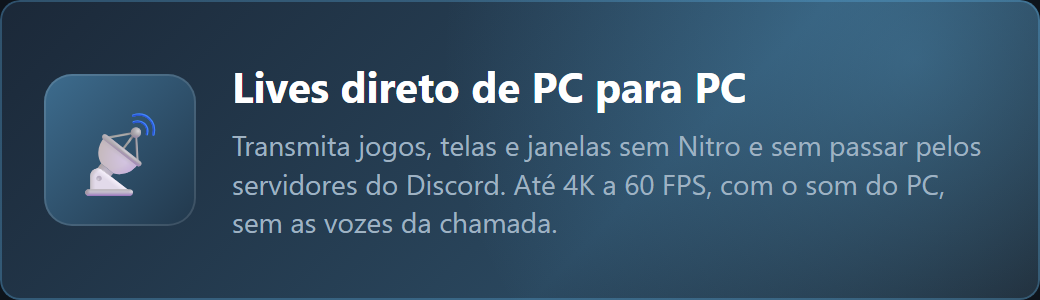
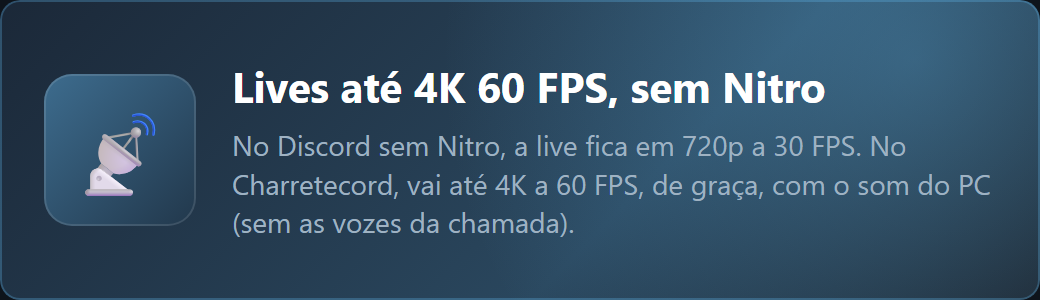
Novidades: só o que difere do Discord, seção do Brasil (ANPD), voz até 1000%

diff --git a/NOVIDADES.md b/NOVIDADES.md
@@ -2,45 +2,49 @@
 
 # Novidades do Charretecord
 
-O histórico completo do que o Charretecord tem e de tudo o que mudou em cada versão. Dentro do app, a janela de novidades abre sozinha depois de cada atualização (e em Configurações → Plugins → CharreteLive → **Novidades do Charretecord**).
+O que o Charretecord tem de diferente do Discord e o histórico de tudo o que mudou em cada versão. Dentro do app, a janela de novidades abre sozinha depois de cada atualização (e em Configurações → Plugins → CharreteLive → **Novidades do Charretecord**).
 
-## O que o Charretecord tem
+## A mais que o Discord
 
 <table>
 <tr>
-<td><img src="guia/novidades/lives.png" width="430" alt="Lives direto de PC para PC"></td>
-<td><img src="guia/novidades/grade.png" width="430" alt="Lives na grade da chamada"></td>
+<td><img src="guia/novidades/lives.png" width="430" alt="Lives até 4K 60 FPS, sem Nitro"></td>
+<td><img src="guia/novidades/privadas.png" width="430" alt="Lives privadas, de PC para PC"></td>
 </tr>
 <tr>
-<td><img src="guia/novidades/camera.png" width="430" alt="Câmera ponto a ponto"></td>
-<td><img src="guia/novidades/aovivo.png" width="430" alt="AO VIVO, prévia e olhinho"></td>
-</tr>
-<tr>
-<td><img src="guia/novidades/pedir.png" width="430" alt="Pedir live"></td>
-<td><img src="guia/novidades/atalho-live.png" width="430" alt="Live num atalho"></td>
-</tr>
-<tr>
-<td><img src="guia/novidades/atalhos.png" width="430" alt="Atalhos globais de verdade"></td>
-<td><img src="guia/novidades/soundboard.png" width="430" alt="Soundboard"></td>
+<td><img src="guia/novidades/soundboard.png" width="430" alt="Soundboard sem Nitro"></td>
+<td><img src="guia/novidades/voz.png" width="430" alt="Volume de voz até 1000%"></td>
 </tr>
 <tr>
 <td><img src="guia/novidades/amplificar.png" width="430" alt="Amplificar o som de uma live"></td>
-<td><img src="guia/novidades/voz.png" width="430" alt="Volume de voz até 500%"></td>
+<td><img src="guia/novidades/atalho-live.png" width="430" alt="Live num atalho, sem perguntar"></td>
 </tr>
 <tr>
 <td><img src="guia/novidades/icone.png" width="430" alt="Quem usa o Charretecord"></td>
-<td><img src="guia/novidades/desempenho.png" width="430" alt="Feito para jogar e transmitir"></td>
 </tr>
+</table>
+
+## No Brasil
+
+Desde 12/08/2026, por ordem da ANPD, as transmissões ao vivo (Go Live) do Discord estão suspensas no Brasil, e o recurso do Discord foi negado em 19/11/2026. Segundo o próprio Discord, a medida também atinge chamadas de vídeo e o compartilhamento de tela. Texto e voz continuam funcionando.
+
+Fontes: [Agência Brasil](https://agenciabrasil.ebc.com.br/radioagencia-nacional/geral/audio/2026-11/anpd-rejeita-recurso-do-discord-e-mantem-lives-suspensas-no-pais), [Olhar Digital](https://olhardigital.com.br/2026/11/19/internet-e-redes-sociais/anpd-nega-recurso-do-discord-e-mantem-lives-suspensas-no-brasil), [Carta Capital](https://www.cartacapital.com.br/toquetec/discord-suspende-recursos-de-video-no-brasil-apos-determinacao-da-anpd/).
+
+<table>
 <tr>
-<td><img src="guia/novidades/miniplayer.png" width="430" alt="Miniplayer e tela cheia"></td>
-<td><img src="guia/novidades/atualizacoes.png" width="430" alt="Atualizações sozinhas"></td>
-</tr>
-<tr>
-<td><img src="guia/novidades/login.png" width="430" alt="Login sem janela de chave de segurança"></td>
+<td><img src="guia/novidades/br-lives.png" width="430" alt="Lives funcionando no Brasil"></td>
+<td><img src="guia/novidades/br-camera.png" width="430" alt="Câmera e tela de volta"></td>
 </tr>
 </table>
 
 ## Notas de atualização
+
+### v1.7.2 · Novidades revistas
+
+<sub>20/11/2026</sub>
+
+- 🔵 **MELHORIA** A janela de novidades mostra só o que o Charretecord faz que o Discord não faz, e uma seção sobre o Brasil: com o Go Live suspenso pela ANPD, as lives e a câmera do Charretecord funcionam porque vão de PC para PC.
+- 🟠 **CORREÇÃO** O volume de voz vai até 1000% (o texto dizia 500%).
 
 ### v1.7.1 · Soundboard
 

diff --git a/README.md b/README.md
@@ -215,7 +215,7 @@ Os atalhos funcionam **em qualquer janela**, até com um jogo em tela cheia aber
 
 ## 11. Volume de voz dos amigos
 
-O Charretecord vem com o volume de voz liberado até **500%**. Durante a chamada, clique com o botão direito no amigo → **Volume do usuário** e arraste além dos 100%.
+O Charretecord vem com o volume de voz liberado até **1000%** (no Discord, o máximo é 200%). Durante a chamada, clique com o botão direito no amigo → **Volume do usuário** e arraste além dos 100%.
 
 Para mudar esse limite, vá em Configurações → Charretecord → Plugins → **VolumeBooster**.
 
